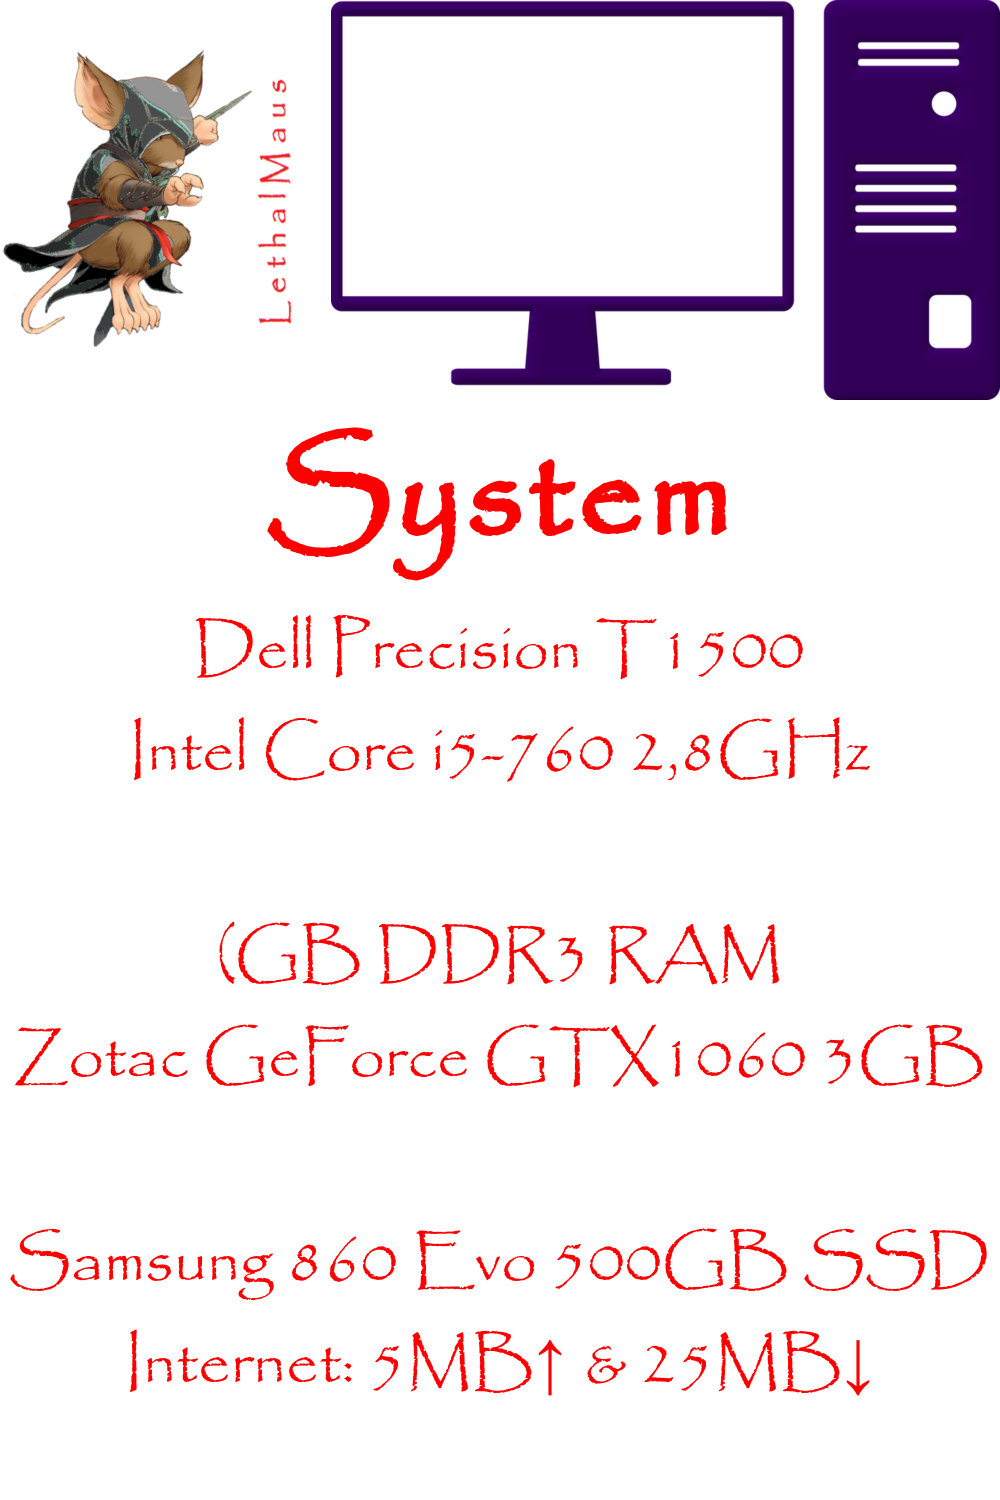
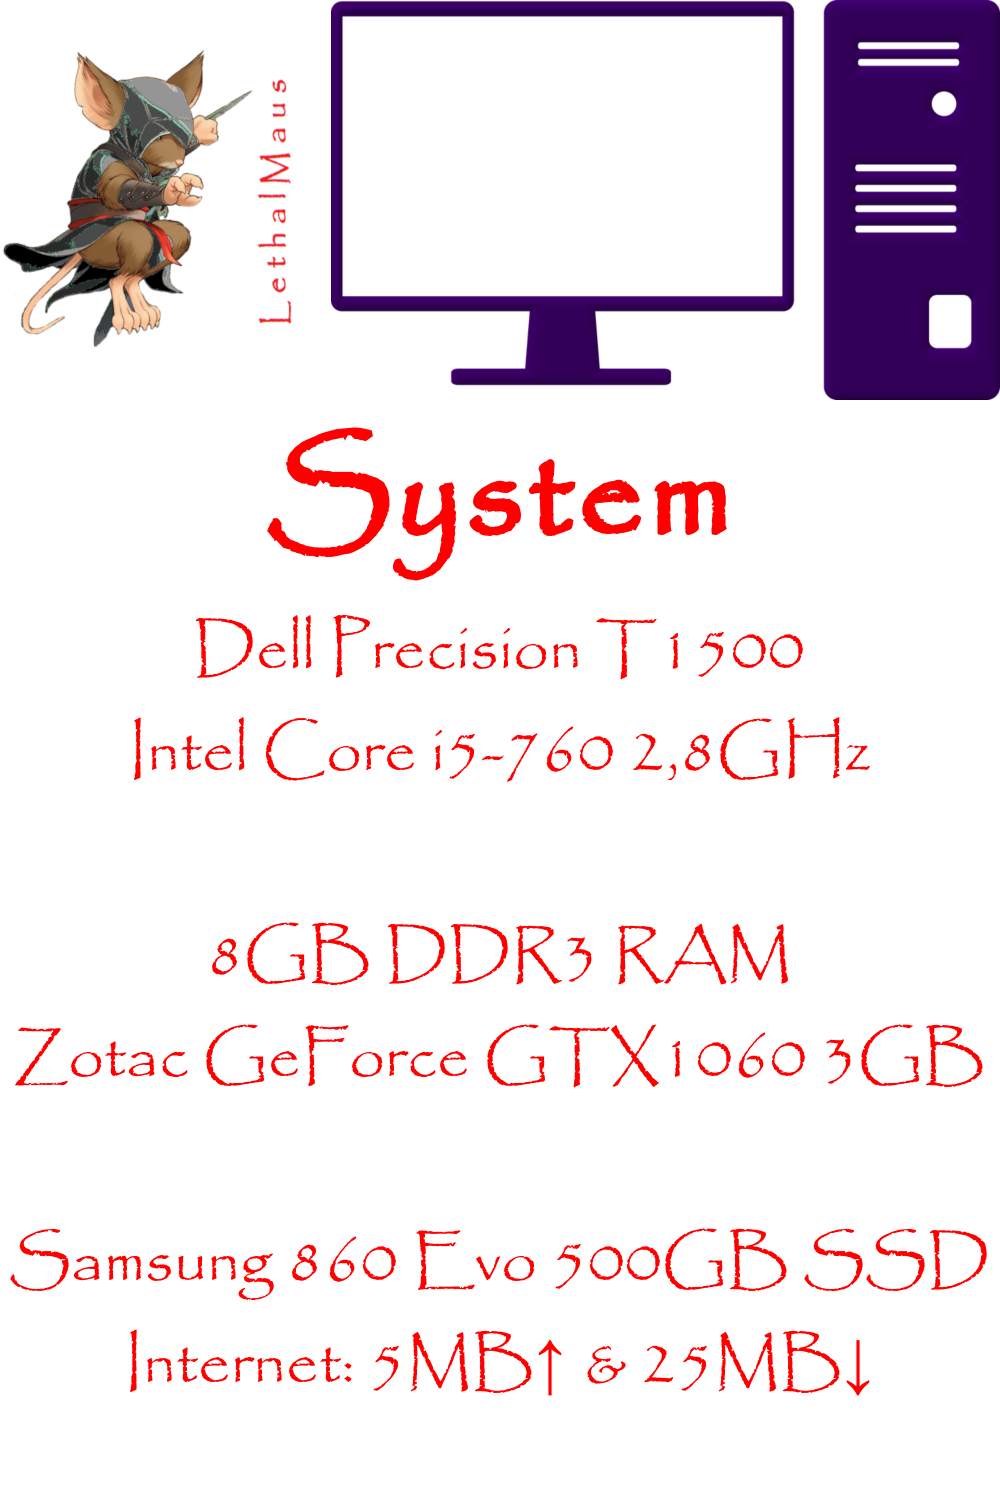
Added PC Specs & StreamingYorkie Panel

Changed region(s): [[0.217, 0.6133, 0.806, 0.6747]]

diff --git a/System Specs/README.md b/System Specs/README.md
@@ -1,0 +1,18 @@
+# Gaming & Streaming Setup
+Dell Precision T1500
+Intel Core i5-760 @2,8GHz
+8GB DDR3 RAM
+3GB Zotac GeForce GTX1060
+500GB Samsung 860 Evo SSD
+
+1 * Acer G236HL FullHD @60Hz
+2 * Dell ST2410 FullHD @60Hz
+PS4 Controller
+Lupuss G1 Headset
+Trust GXT 101 Gaming Mouse
+IDE 3100 Wireless Keyboard
+Microsoft LifeCam HD-3000
+
+Streaming & Recording:		OBS Studio
+Twitch Overview:			StreamingYorkie
+Widgets:					Streamlabs & Streamelements
